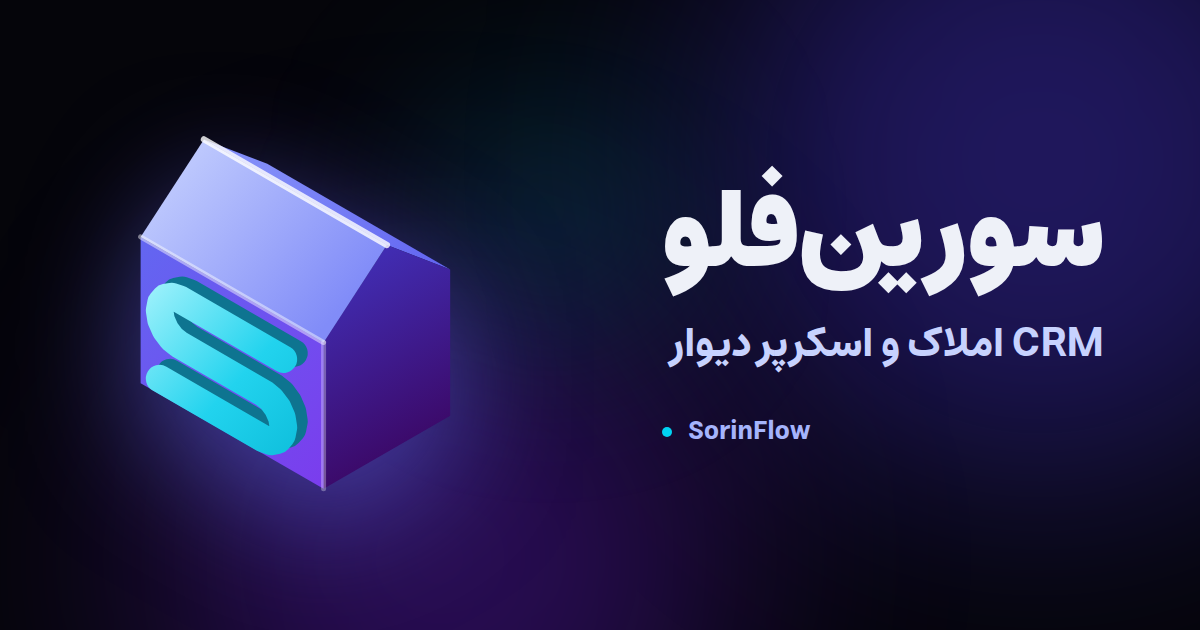
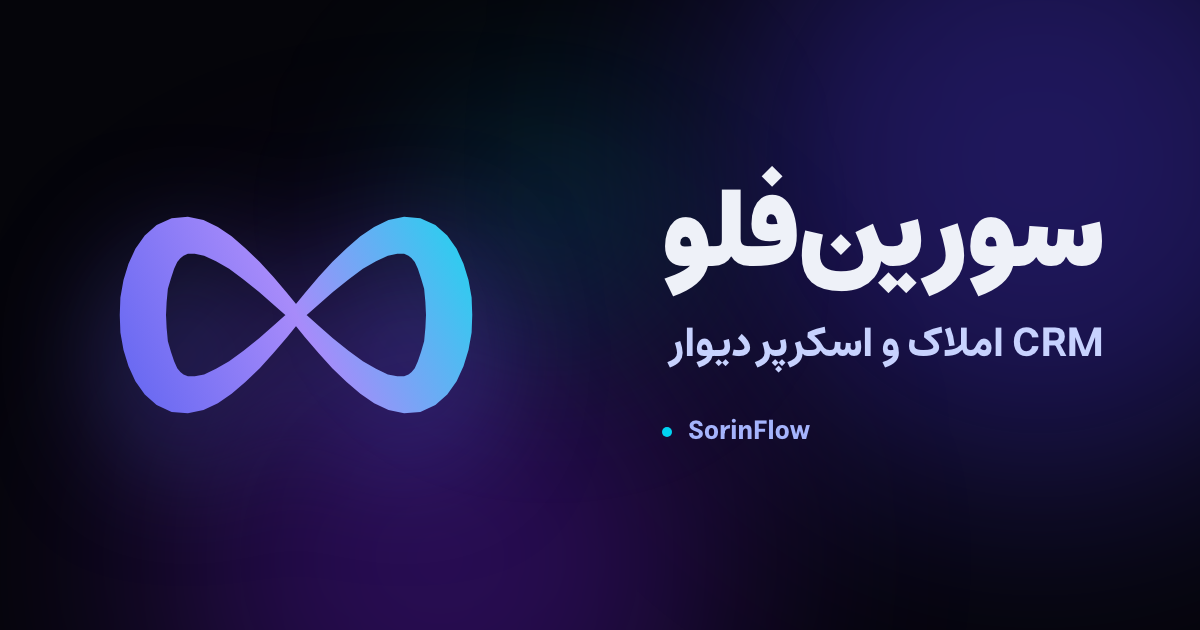
feat: the site wears «ی», the tapered infinity ribbon
Sobhan's pick out of the ten concepts. One line in logo.tsx decides it, and
everything that draws the brand — the panel shell, the login page, the portal,
the landing page, the footer — follows from there.

The rendered files had to follow too, and they are made from the mark itself
rather than redrawn: brand-assets.mjs screenshots the running app, so og.png,
the two icon PNGs layout.tsx imports and favicon.ico are the same drawing the
pages show. The PWA set under public/icons was still being rendered from the
old placeholder `frontend/favicon.svg`, so the mark is now exported to
src/components/brand/icons/mark.svg and render-icons.mjs reads that; SOURCE.txt
says where it came from and how to redo it.

Checked: the login page shows the ribbon (one gradient-filled path, no stray
concept), and the icon set is regenerated at 32/180/192/512 plus the maskable
512 with its 80% safe zone.

Changed region(s): [[0.0925, 0.2111, 0.4008, 0.8746], [0.555, 0.5127, 0.925, 0.573], [0.555, 0.6635, 0.6783, 0.6937]]

diff --git a/frontend-next/src/components/brand/logo.tsx b/frontend-next/src/components/brand/logo.tsx
@@ -7,8 +7,9 @@
 
 import { CONCEPTS, type ConceptKey, type LockupProps, type MarkProps } from "./logos";
 
-/** الف = "house", ب = "ribbon", ج = "towers". The owner picks; "house" for now. */
-export const CURRENT_CONCEPT: ConceptKey = "house";
+/** The owner's pick: «ی», the tapered infinity ribbon. The gallery at
+ *  /brand-preview lists every concept and the letter each one goes by. */
+export const CURRENT_CONCEPT: ConceptKey = "infRibbon";
 
 export function LogoMark(props: MarkProps) {
   const { Mark } = CONCEPTS[CURRENT_CONCEPT];
